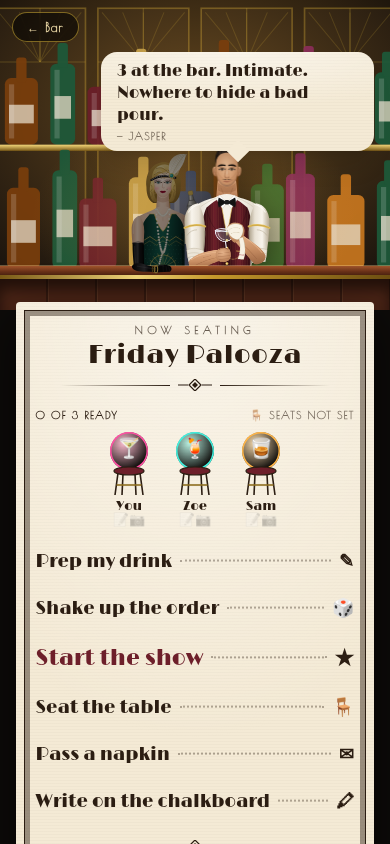
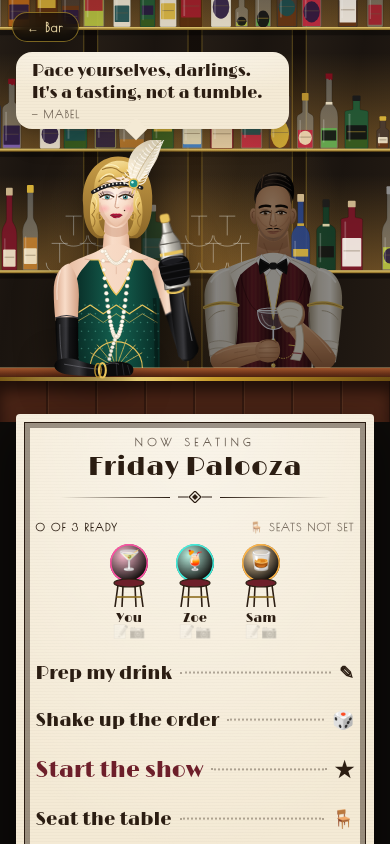
Back bar to scale: varied bottles sized against the bartenders
The wall is now drawn in the bartenders' own units (one step back, at
85%), so a fifth is ~30 cm next to a ~23 cm head instead of towering
over them. Seeded mix of nine real bottle shapes, fifteen glass and
spirit combinations, random fill levels, labels, caps and wax, with
lit glass shelves, mirrored Deco arches and the odd coupe tower.

Claude-Session: https://claude.ai/code/session_011CbgATwdF2v95Wt95rkTNU

diff --git a/components/art/Bartenders.tsx b/components/art/Bartenders.tsx
@@ -510,54 +510,221 @@ export function Jasper({ polishing = false, portrait = false, layer = "all" }: {
   );
 }
 
-/** The back bar behind the bartenders: brass shelves of backlit bottles. */
-export function BackBar() {
-  const bottles = [
-    // x, width, height, colour
-    [8, 16, 46, "#7a3e0c"], [28, 12, 56, "#1d5a3a"], [44, 18, 40, "#6d1f2a"], [66, 14, 52, "#c8a24a"],
-    [84, 20, 44, "#2a3f6a"], [108, 12, 58, "#7a3e0c"], [124, 16, 48, "#3c6e2f"], [144, 14, 54, "#8b2e5a"],
-    [162, 18, 42, "#c8771f"], [184, 12, 50, "#1d5a3a"],
-  ] as const;
+// ---- The back bar ------------------------------------------------------------
+
+/** The wall reaches this far above the bartenders' frame, in the same units. */
+export const WALL_TOP = -420;
+
+type Rng = () => number;
+function mulberry(seed: number): Rng {
+  return () => {
+    seed = (seed + 0x6d2b79f5) | 0;
+    let t = Math.imul(seed ^ (seed >>> 15), 1 | seed);
+    t = (t + Math.imul(t ^ (t >>> 7), 61 | t)) ^ t;
+    return ((t ^ (t >>> 14)) >>> 0) / 4294967296;
+  };
+}
+const choose = <T,>(r: Rng, xs: readonly T[]) => xs[Math.floor(r() * xs.length)];
+
+/**
+ * Real bottles at real size. The frame is about 3.3 units per cm (Mabel's
+ * head is ~23 cm), and the back wall sits a step behind them, so everything
+ * on it is drawn at 85%. [height cm, width cm, neck cm, shoulder style]
+ */
+const BOTTLES = {
+  fifth: [30, 8, 9, "round"], // the everyday 750 ml
+  litre: [33, 8.5, 10, "round"],
+  square: [27, 9, 6, "square"], // Tennessee-style whiskey
+  wine: [31, 7.5, 11, "slope"], // vermouth, aperitifs
+  slim: [34, 6.5, 12, "slope"], // cordials, absinthe
+  flask: [20, 9.5, 5, "square"], // squat liqueur flask
+  half: [22, 6.5, 7, "round"], // 375 ml
+  bitters: [13, 5, 4, "round"], // bitters with a paper label
+  decanter: [24, 11, 4, "decanter"], // cut-glass with a ball stopper
+} as const;
+type Kind = keyof typeof BOTTLES;
+const KINDS = Object.keys(BOTTLES) as Kind[];
+const WEIGHTS: Record<Kind, number> = { fifth: 6, litre: 2, square: 3, wine: 3, slim: 2, flask: 2, half: 2, bitters: 2, decanter: 1 };
+
+/** Glass colour, and what's inside it. */
+const GLASS: { glass: string; alpha: number; liquid: string | null }[] = [
+  { glass: "#8a4a12", alpha: 0.9, liquid: "#b8661a" }, // bourbon in amber
+  { glass: "#c9d6d9", alpha: 0.32, liquid: "#c27a26" }, // whiskey, clear glass
+  { glass: "#c9d6d9", alpha: 0.32, liquid: null }, // gin, vodka
+  { glass: "#c9d6d9", alpha: 0.32, liquid: "#c41e3a" }, // bitter red aperitivo
+  { glass: "#c9d6d9", alpha: 0.32, liquid: "#b7c43a" }, // chartreuse
+  { glass: "#1f5b37", alpha: 0.88, liquid: "#3a5a1c" }, // green glass
+  { glass: "#0f3a26", alpha: 0.92, liquid: null },
+  { glass: "#1d3f8f", alpha: 0.85, liquid: null }, // cobalt gin
+  { glass: "#7d1328", alpha: 0.85, liquid: null }, // ruby
+  { glass: "#4a3b30", alpha: 0.9, liquid: "#6b3510" }, // dark rum
+  { glass: "#c9d6d9", alpha: 0.3, liquid: "#7a5ab3" }, // crème de violette
+  { glass: "#c9d6d9", alpha: 0.3, liquid: "#2f7fd8" }, // blue curaçao
+  { glass: "#c9d6d9", alpha: 0.3, liquid: "#5fae4c" }, // absinthe
+  { glass: "#e9e2d0", alpha: 0.95, liquid: null }, // milk glass
+  { glass: "#5b2e0e", alpha: 0.92, liquid: null }, // amaro
+];
+const LABELS = ["#efe3c6", "#f5f1e8", "#121212", "#a3202c", "#d4af37", "#1c4d4d", "#e8d9b0", "#2a1a3e"];
+const CAPS = ["#d4af37", "#b8902f", "#7a0f1c", "#1a1a1a", "#c9b38a", "#8c8c8c"];
+
+function pickKind(r: Rng): Kind {
+  const total = KINDS.reduce((a, k) => a + WEIGHTS[k], 0);
+  let n = r() * total;
+  for (const k of KINDS) if ((n -= WEIGHTS[k]) < 0) return k;
+  return "fifth";
+}
+
+function Bottle({ x, y, kind, seed }: { x: number; y: number; kind: Kind; seed: number }) {
+  // Each bottle rolls its own dice so a re-render can never reshuffle the bar.
+  const r = mulberry(seed);
+  const U = 3.3 * 0.85;
+  const [hc, wc, nc, shoulder] = BOTTLES[kind];
+  const h = hc * U * (0.94 + r() * 0.12);
+  const w = wc * U * (0.94 + r() * 0.12);
+  const neck = nc * U;
+  const nw = kind === "decanter" ? w * 0.28 : Math.max(2.4 * U, w * (kind === "flask" ? 0.3 : 0.32));
+  const g = choose(r, kind === "decanter" ? GLASS.filter((c) => c.alpha < 0.5) : GLASS);
+  const x0 = x;
+  const x1 = x + w;
+  const cx = x + w / 2;
+  const top = y - h;
+  const sh = shoulder === "square" ? 3 : shoulder === "slope" ? h * 0.22 : shoulder === "decanter" ? w * 0.42 : h * 0.12;
+  const yn = top + neck; // neck base
+  const ys = yn + sh; // shoulder start
+  const n0 = cx - nw / 2;
+  const n1 = cx + nw / 2;
+  const body =
+    shoulder === "decanter"
+      ? `M${x0 + 2},${y} C${x0 - 2},${y - h * 0.3} ${x0},${ys} ${n0},${yn} L${n0},${top + 4} L${n1},${top + 4} L${n1},${yn} C${x1},${ys} ${x1 + 2},${y - h * 0.3} ${x1 - 2},${y} Z`
+      : `M${x0},${y - 1.5} L${x0},${ys} C${x0},${ys - sh * 0.7} ${n0},${yn + sh * 0.35} ${n0},${yn} L${n0},${top} L${n1},${top} L${n1},${yn} C${n1},${yn + sh * 0.35} ${x1},${ys - sh * 0.7} ${x1},${ys} L${x1},${y - 1.5} Q${x1},${y} ${x1 - 1.5},${y} L${x0 + 1.5},${y} Q${x0},${y} ${x0},${y - 1.5} Z`;
+  const level = ys + (y - ys) * (0.05 + r() * 0.75);
+  const labelKind = r();
+  const lc = choose(r, LABELS);
+  const capC = choose(r, CAPS);
+  const lh = (y - ys) * (0.35 + r() * 0.25);
+  const ly = ys + (y - ys) * (0.3 + r() * 0.15);
   return (
-    <svg viewBox="0 0 200 150" preserveAspectRatio="xMidYMax slice" className="h-full w-full" aria-hidden>
+    <g>
+      <path d={body} fill={g.glass} fillOpacity={g.alpha} stroke="#000" strokeOpacity={0.35} strokeWidth={0.6} />
+      {g.liquid && <rect x={x0 + 1.2} y={level} width={w - 2.4} height={y - level - 1.2} fill={g.liquid} opacity={0.85} />}
+      {/* label: a plain band, an oval, or a tall paper label */}
+      {kind === "decanter" ? (
+        <path d={`M${cx - 6},${y - h * 0.35} l6,-5 l6,5 l-6,5 Z`} fill="#d4af37" opacity={0.8} />
+      ) : labelKind < 0.45 ? (
+        <rect x={x0 + 1.5} y={ly} width={w - 3} height={lh} rx={1} fill={lc} opacity={0.92} />
+      ) : labelKind < 0.75 ? (
+        <ellipse cx={cx} cy={ly + lh / 2} rx={w / 2 - 2} ry={lh / 2} fill={lc} opacity={0.92} />
+      ) : (
+        <>
+          <rect x={x0 + 2} y={ly} width={w - 4} height={lh * 0.6} fill={lc} opacity={0.9} />
+          <rect x={n0 - 0.5} y={yn + 1} width={nw + 1} height={3} fill={choose(r, LABELS)} opacity={0.9} />
+        </>
+      )}
+      {labelKind < 0.75 && kind !== "decanter" && <line x1={x0 + 3} x2={x1 - 3} y1={ly + lh * 0.45} y2={ly + lh * 0.45} stroke={lc === "#121212" ? "#d4af37" : "#6b5a40"} strokeWidth={0.8} opacity={0.7} />}
+      {/* cap, cork, wax or stopper */}
+      {kind === "decanter" ? (
+        <circle cx={cx} cy={top + 1} r={nw * 0.75} fill="#c9d6d9" fillOpacity={0.45} stroke="#000" strokeOpacity={0.3} strokeWidth={0.5} />
+      ) : capC === "#7a0f1c" ? (
+        <path d={`M${n0 - 0.6},${top + 5} L${n0 - 0.6},${top - 1} L${n1 + 0.6},${top - 1} L${n1 + 0.6},${top + 5} q-1,4 -2,0 q-1.5,3 -3,0 Z`} fill={capC} />
+      ) : (
+        <rect x={n0 - 0.5} y={top - 2} width={nw + 1} height={Math.min(neck * 0.45, 9)} rx={1} fill={capC} />
+      )}
+      {/* the shine down one side */}
+      <rect x={x0 + w * 0.16} y={ys + 2} width={Math.max(1.2, w * 0.08)} height={(y - ys) * 0.75} fill="#fff" opacity={0.22} rx={0.6} />
+    </g>
+  );
+}
+
+/** A little champagne tower of coupes, waiting their turn. */
+function Coupes({ x, y }: { x: number; y: number }) {
+  const U = 3.3 * 0.85;
+  const bw = 11 * U; // bowl across
+  const gh = 13 * U; // foot to rim
+  const glass = (gx: number, gy: number, k: string) => {
+    const rim = gy - gh;
+    return (
+      <g key={k} stroke="#e8f0f5" strokeOpacity={0.6} strokeWidth={0.9}>
+        <path d={`M${gx - bw / 2},${rim} C${gx - bw / 2},${rim + gh * 0.42} ${gx + bw / 2},${rim + gh * 0.42} ${gx + bw / 2},${rim} Z`} fill="#e8f0f5" fillOpacity={0.12} />
+        <line x1={gx} y1={rim + gh * 0.31} x2={gx} y2={gy} />
+        <path d={`M${gx - bw * 0.28},${gy} Q${gx},${gy - 2} ${gx + bw * 0.28},${gy}`} fill="none" />
+      </g>
+    );
+  };
+  return (
+    <g>
+      {[0, 1, 2].map((i) => glass(x + i * bw * 1.02, y, `a${i}`))}
+      {[0, 1].map((i) => glass(x + bw * 0.51 + i * bw * 1.02, y - gh, `b${i}`))}
+      {glass(x + bw * 1.02, y - gh * 2, "c")}
+    </g>
+  );
+}
+
+/**
+ * The back bar, in the bartenders' own units so the bottles are bottle-sized
+ * next to them: mirrored Deco panels, three lit glass shelves, and a jumble
+ * of real shapes, colours and fill levels. Seeded, so it's the same bar on
+ * every phone.
+ */
+export function BackBar() {
+  const r = mulberry(1920);
+  const shelves = [150, 10, -130];
+  const panels = Array.from({ length: 10 }, (_, i) => -500 + i * 120);
+  return (
+    <svg viewBox={`-500 ${WALL_TOP} 1200 ${VIEW_H - WALL_TOP}`} preserveAspectRatio="xMidYMax slice" className="h-full w-full" aria-hidden>
       <defs>
-        <radialGradient id="bb-glow" cx="0.5" cy="0.35" r="0.7">
-          <stop offset="0" stopColor="#ffb547" stopOpacity="0.35" />
-          <stop offset="1" stopColor="#ffb547" stopOpacity="0" />
-        </radialGradient>
+        <linearGradient id="bb-wall" x1="0" y1="0" x2="0" y2="1">
+          <stop offset="0" stopColor="#0d0907" />
+          <stop offset="1" stopColor="#1c130c" />
+        </linearGradient>
+        <linearGradient id="bb-mirror" x1="0" y1="0" x2="1" y2="1">
+          <stop offset="0" stopColor="#2a2119" />
+          <stop offset="0.5" stopColor="#1a140f" />
+          <stop offset="1" stopColor="#261d15" />
+        </linearGradient>
         <linearGradient id="bb-brass" x1="0" y1="0" x2="0" y2="1">
           <stop offset="0" stopColor="#f3d77a" />
           <stop offset="1" stopColor="#7a5a17" />
         </linearGradient>
+        <linearGradient id="bb-light" x1="0" y1="1" x2="0" y2="0">
+          <stop offset="0" stopColor="#ffb547" stopOpacity="0.32" />
+          <stop offset="1" stopColor="#ffb547" stopOpacity="0" />
+        </linearGradient>
       </defs>
-      <rect width="200" height="150" fill="#120d09" />
-      {/* deco mirror panels */}
-      {[0, 50, 100, 150].map((x) => (
+      <rect x={-500} y={WALL_TOP} width={1200} height={VIEW_H - WALL_TOP} fill="url(#bb-wall)" />
+      {/* arched mirror panels with a sunburst crown */}
+      {panels.map((x) => (
         <g key={x}>
-          <rect x={x + 3} y={4} width={44} height={140} fill="#1a130d" stroke="#d4af37" strokeOpacity={0.35} strokeWidth={0.8} />
-          <path d={`M${x + 25},4 L${x + 25},30 M${x + 3},30 L${x + 47},30`} stroke="#d4af37" strokeOpacity={0.25} strokeWidth={0.6} />
-          {[0, 1, 2, 3, 4].map((i) => (
-            <line key={i} x1={x + 25} y1={30} x2={x + 5 + i * 10} y2={6} stroke="#d4af37" strokeOpacity={0.18} strokeWidth={0.5} />
+          <path d={`M${x + 8},${VIEW_H} L${x + 8},${WALL_TOP + 110} Q${x + 60},${WALL_TOP + 40} ${x + 112},${WALL_TOP + 110} L${x + 112},${VIEW_H} Z`} fill="url(#bb-mirror)" stroke="#d4af37" strokeOpacity={0.35} strokeWidth={1.2} />
+          {[0, 1, 2, 3, 4, 5, 6].map((i) => (
+            <line key={i} x1={x + 60} y1={WALL_TOP + 112} x2={x + 14 + i * 15.3} y2={WALL_TOP + 76 + Math.abs(i - 3) * 9} stroke="#d4af37" strokeOpacity={0.18} strokeWidth={0.8} />
           ))}
         </g>
       ))}
-      <rect width="200" height="150" fill="url(#bb-glow)" />
-      {[70, 130].map((shelfY, s) => (
-        <g key={shelfY}>
-          {bottles.map(([x, w, h, color], i) => {
-            const hh = h * (s ? 0.85 : 0.7);
-            return (
-              <g key={i} opacity={0.92}>
-                <rect x={x + ((i * 7 + s * 11) % 5)} y={shelfY - hh} width={w} height={hh} rx={3} fill={color} />
-                <rect x={x + ((i * 7 + s * 11) % 5) + w / 2 - 2.5} y={shelfY - hh - 10} width={5} height={12} rx={1.5} fill={color} />
-                <rect x={x + ((i * 7 + s * 11) % 5) + 2} y={shelfY - hh * 0.6} width={w - 4} height={hh * 0.28} fill="#f4ead5" opacity={0.75} />
-                <rect x={x + ((i * 7 + s * 11) % 5) + 2} y={shelfY - hh + 3} width={2.5} height={hh - 6} fill="#fff" opacity={0.18} />
-              </g>
-            );
-          })}
-          <rect x={0} y={shelfY} width={200} height={3} fill="url(#bb-brass)" />
-        </g>
-      ))}
+      {shelves.map((sy, s) => {
+        const items: React.ReactNode[] = [];
+        let x = -500 + r() * 10;
+        let k = 0;
+        while (x < 700) {
+          if (s === 0 && r() < 0.06) {
+            items.push(<Coupes key={k++} x={x + 16} y={sy} />);
+            x += 110;
+            continue;
+          }
+          const kind = pickKind(r);
+          const w = BOTTLES[kind][1] * 3.3 * 0.85;
+          items.push(<Bottle key={k} x={x} y={sy} kind={kind} seed={s * 1000 + k} />);
+          k++;
+          x += w + 2 + r() * (r() < 0.15 ? 30 : 9);
+        }
+        return (
+          <g key={sy}>
+            <rect x={-500} y={sy - 110} width={1200} height={110} fill="url(#bb-light)" />
+            {items}
+            <rect x={-500} y={sy} width={1200} height={3.5} fill="url(#bb-brass)" />
+            <rect x={-500} y={sy + 3.5} width={1200} height={6} fill="#000" opacity={0.35} />
+          </g>
+        );
+      })}
     </svg>
   );
 }

diff --git a/components/scenes/Bartender.tsx b/components/scenes/Bartender.tsx
@@ -9,7 +9,7 @@ import { playSound } from "@/lib/sounds";
 import { enableTilt, tiltEnabled, tiltNeedsPermission, useShake } from "@/lib/tilt";
 import type { LiveEvent, Member } from "@/lib/types";
 import { showScene, useApp } from "../AppContext";
-import { BackBar, BAR_Y, Jasper, Mabel, VIEW_H, type Layer } from "../art/Bartenders";
+import { BackBar, BAR_Y, Jasper, Mabel, VIEW_H, WALL_TOP, type Layer } from "../art/Bartenders";
 import { ChalkboardSheet } from "../Chalkboard";
 import { PrepSheet } from "../Drink";
 import { PassNapkin, SeatingSheet } from "../Seating";
@@ -53,10 +53,6 @@ export function BartenderScene() {
         onClick={() => me && setCompact((c) => !c)}
         className={`relative overflow-hidden transition-[height] duration-500 ${compact && me ? "h-[310px]" : "h-[50dvh] min-h-[340px]"}`}
       >
-        <div className="absolute inset-0">
-          <BackBar />
-        </div>
-        <div className="absolute inset-0 bg-[radial-gradient(60%_50%_at_50%_70%,rgba(255,181,71,0.2),transparent_70%)]" />
         {/* The top 170px is kept for the speech bubble, so it never covers a face. */}
         <BehindTheBar speaker={speaker} className="h-[calc(100%-170px)]" />
         {/* speech bubble */}
@@ -118,6 +114,11 @@ function BehindTheBar({ speaker, className }: { speaker: "mabel" | "jasper"; cla
   );
   return (
     <div className={`absolute inset-x-0 bottom-[30px] transition-[height] duration-500 ${className}`}>
+      {/* the back wall, in the same units as the two of them, so a bottle is bottle-sized */}
+      <div className="absolute inset-x-0 bottom-0 blur-[0.4px]" style={{ height: `${((VIEW_H - WALL_TOP) / VIEW_H) * 100}%` }}>
+        <BackBar />
+        <div className="absolute inset-0 bg-[radial-gradient(55%_40%_at_50%_75%,rgba(255,181,71,0.16),transparent_70%),linear-gradient(rgba(0,0,0,0.35),transparent_45%)]" />
+      </div>
       {row("body")}
       {/* the counter: polished top, brass edge, panelled front */}
       <div className="absolute inset-x-0 bottom-[-400px] z-[3]" style={{ top: `${(BAR_Y / VIEW_H) * 100}%` }}>

diff --git a/PLAN.md b/PLAN.md
@@ -177,6 +177,16 @@ Painted-poster style: gradients for skin, hair and fabric rather than flat fills
 
 The top of the stage is kept clear for the speech bubble, so it never covers a face.
 
+**The back bar is to scale too.** The wall behind them is drawn in the same units as the bartenders, set one step back (85%), so a 750 ml bottle is about 30 cm next to a 23 cm head. It has:
+- mirrored Deco arches
+- three lit glass shelves with brass rails
+- a seeded jumble of real bottle shapes: fifths, litres, square whiskey, tall cordials, squat flasks, half bottles, little bitters, a cut-glass decanter
+- glass colours (amber, clear, cobalt, ruby, green, milk glass) with different spirits inside at different fill levels
+- assorted labels and caps (foil, cork, dripping wax)
+- the odd champagne-coupe tower
+
+Every bottle rolls its own dice from a fixed seed, so it's the same bar on every phone and every render.
+
 **They talk.** `lib/banter.ts` writes their lines from the live state:
 - *At the bar* they hold a running conversation: the line you need first (join up, write your recipe, snap a photo), then back-and-forths that call people out by name ("Still no recipe from Zoe." / "Zoe, it's a cocktail, not a novel."), headcount jokes, champion ribbing, and a stock of we're-going-to-drink-too-much gags. Tap the bubble to move them on.
 - *During the game* one of them leans into frame with a short remark: a new presenter ("Mezcal? Bold choice, Cal."), your own pour once it settles (a 1 or a 10 always gets one), someone finishing, the last straggler by name, every glass in, a flurry of reactions, a napkin, or idle chatter if it goes quiet. At most one every 9 seconds, so they season the game rather than narrate it.
